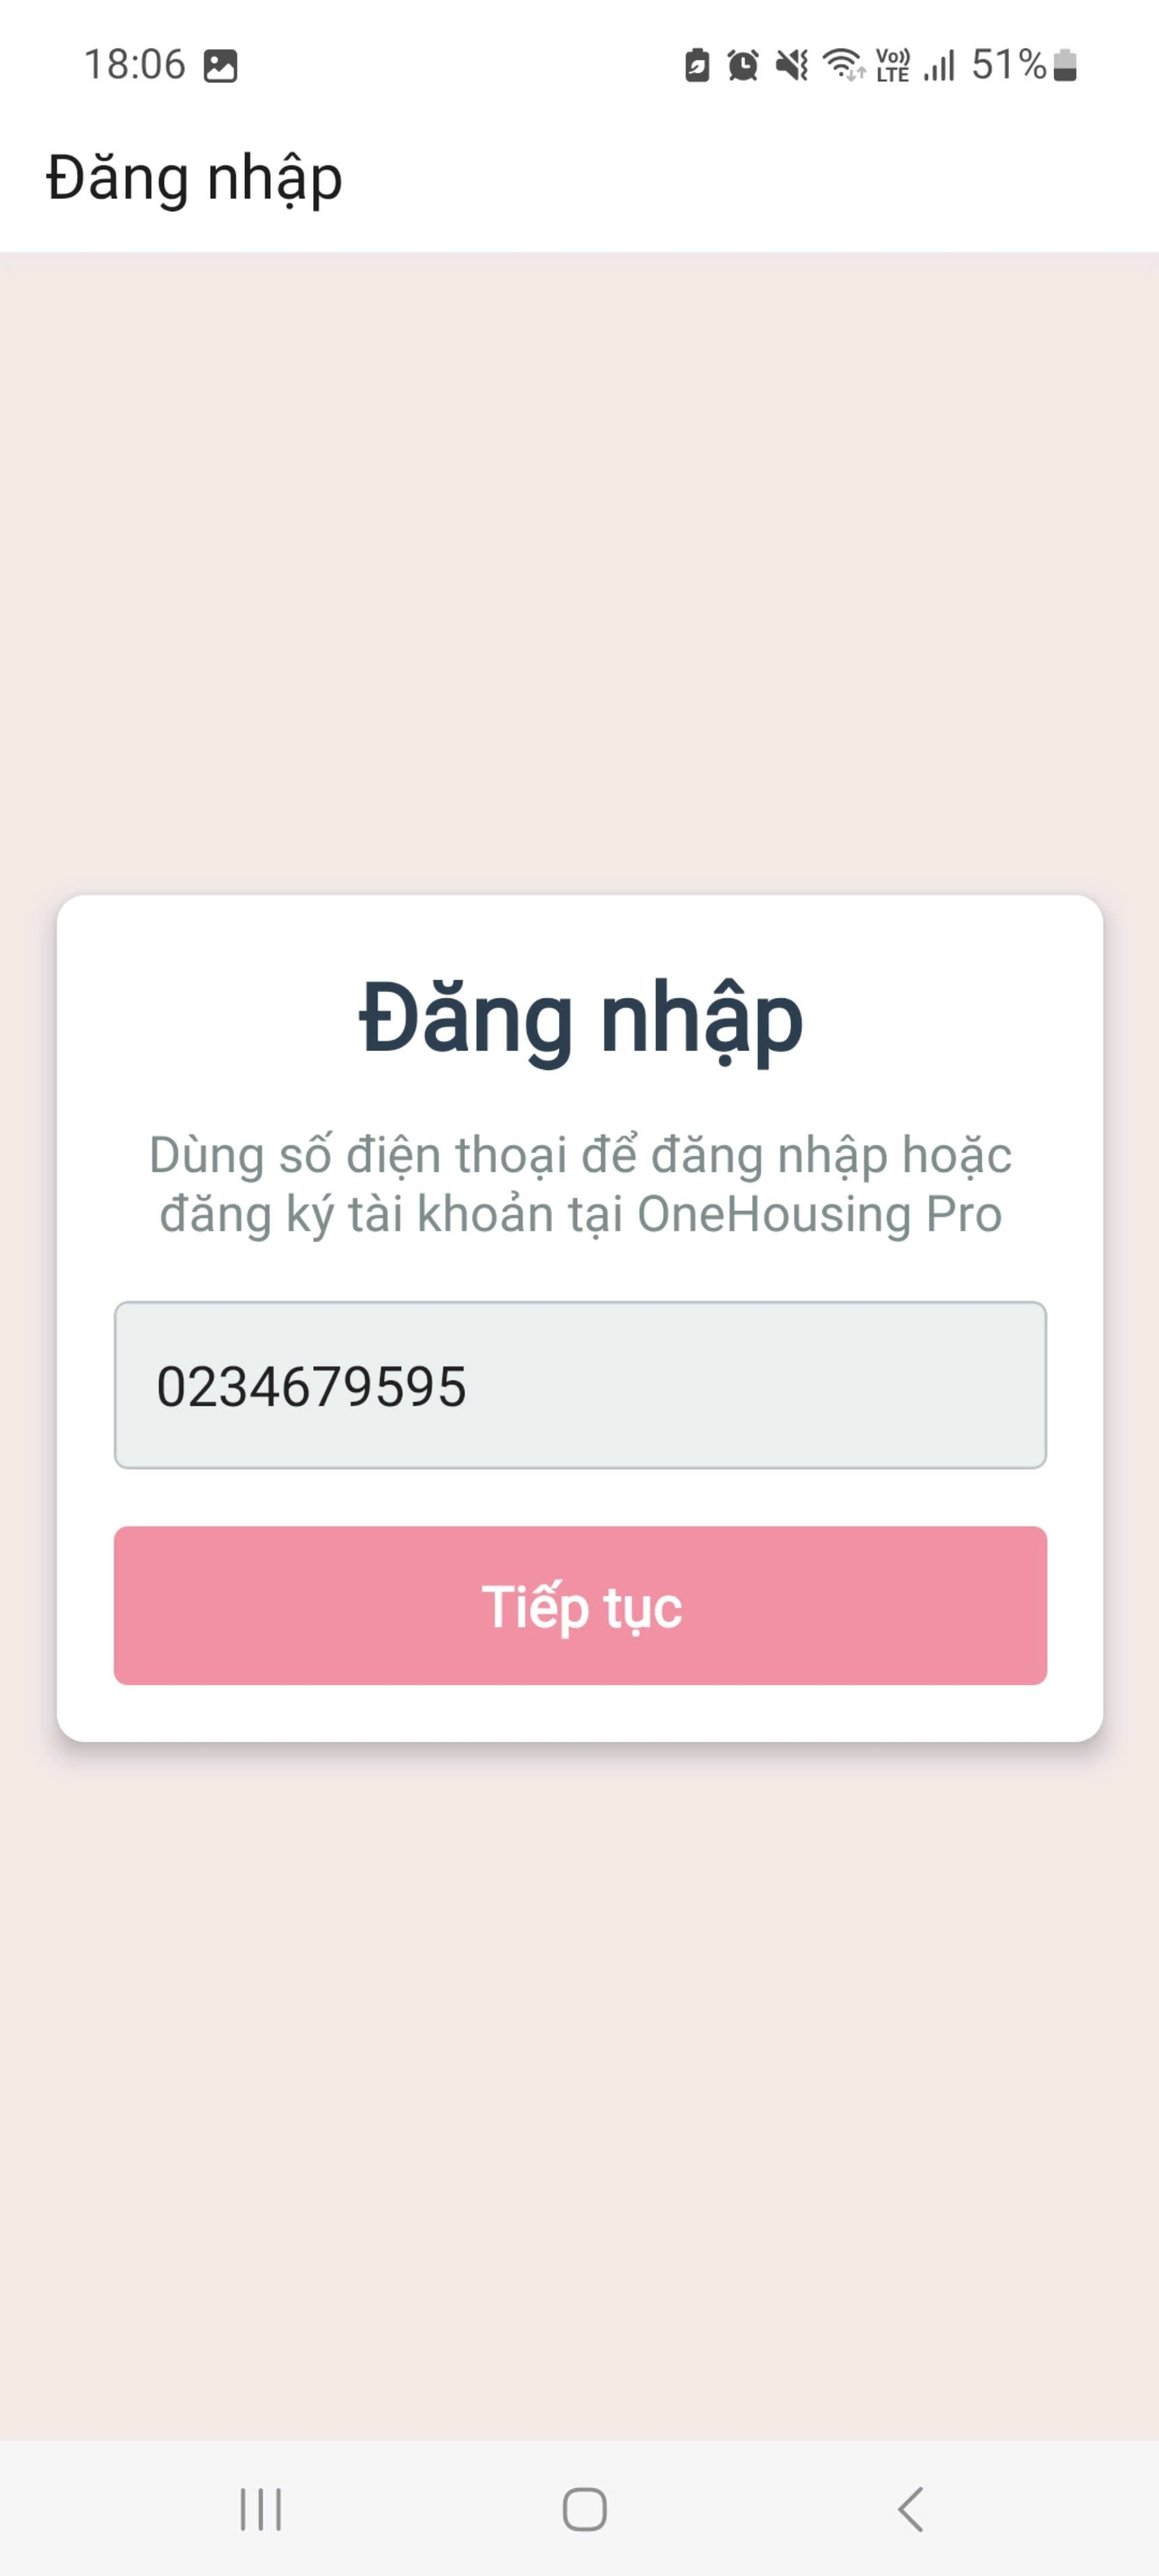
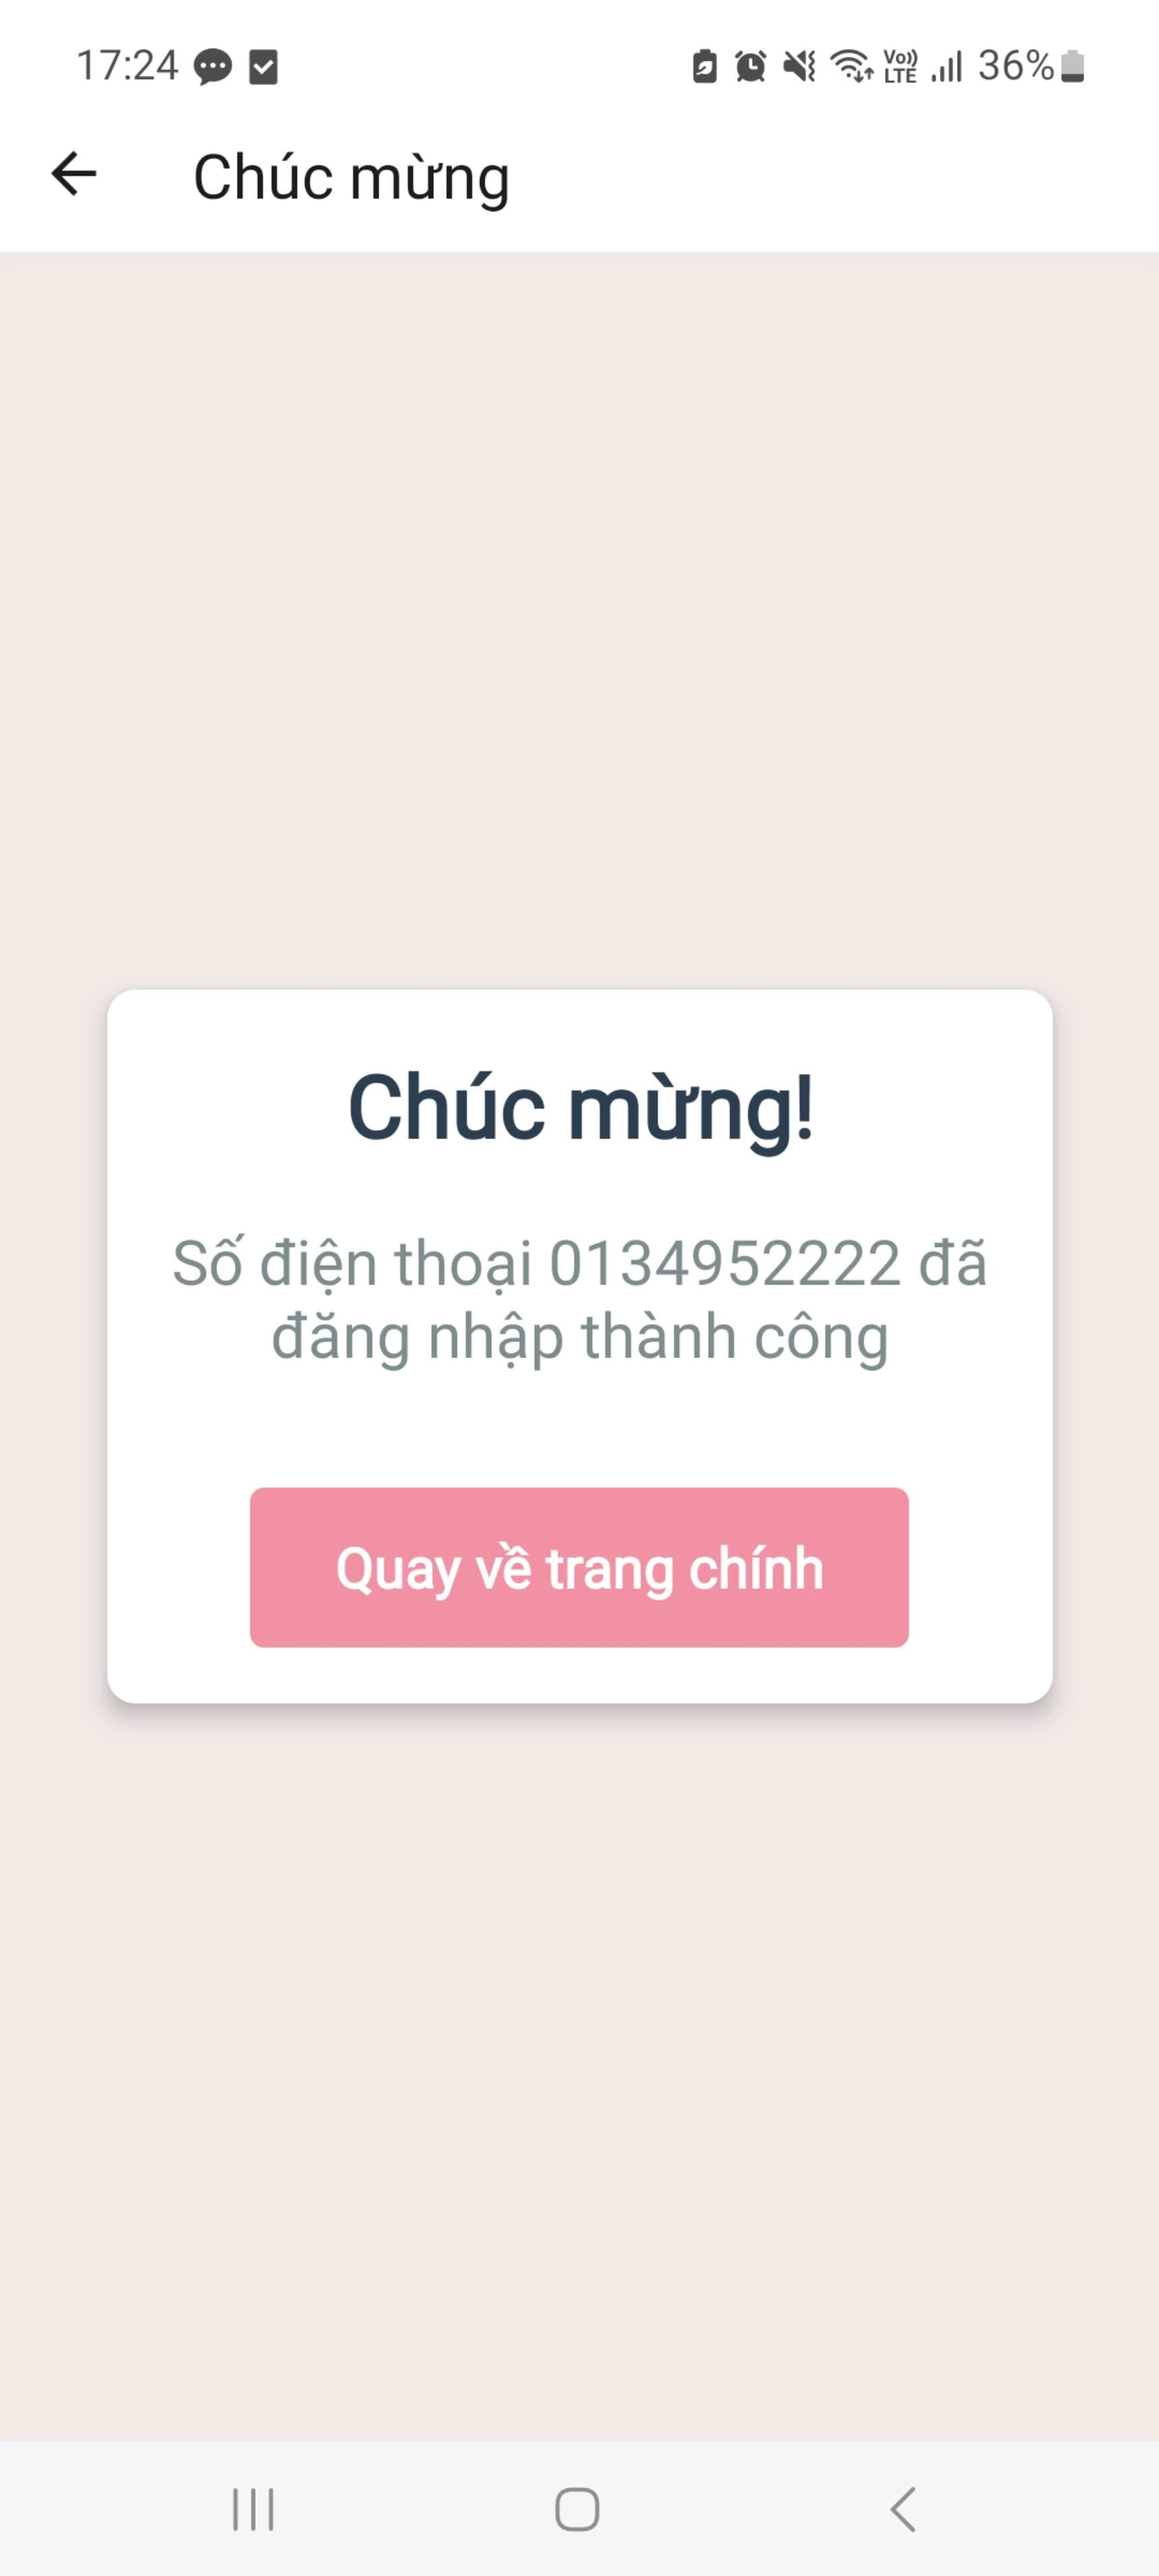
noi dung

diff --git a/App.js b/App.js
@@ -5,31 +5,34 @@ import { StatusBar } from 'expo-status-bar';
 import React from 'react';
 import LoginScreen from './LoginScreen';
 import OTPScreen from './OTPScreen';
+import { PhoneProvider } from './PhoneContext'; // Import PhoneProvider
 import SuccessScreen from './SuccessScreen';
 
 const Stack = createStackNavigator();
 
 export default function App() {
   return (
-    <NavigationContainer>
-      <StatusBar style="auto" />
-      <Stack.Navigator initialRouteName="LoginScreen">
-        <Stack.Screen 
-          name="LoginScreen" 
-          component={LoginScreen} 
-          options={{ title: 'Đăng nhập' }}
-        />
-        <Stack.Screen 
-          name="OTPScreen" 
-          component={OTPScreen} 
-          options={{ title: 'Xác minh OTP' }}
-        />
-        <Stack.Screen 
-          name="SuccessScreen" 
-          component={SuccessScreen} 
-          options={{ title: 'Chúc mừng' }}
-        />
-      </Stack.Navigator>
-    </NavigationContainer>
+    <PhoneProvider>
+      <NavigationContainer>
+        <StatusBar style="auto" />
+        <Stack.Navigator initialRouteName="LoginScreen">
+          <Stack.Screen 
+            name="LoginScreen" 
+            component={LoginScreen} 
+            options={{ title: 'Đăng nhập' }}
+          />
+          <Stack.Screen 
+            name="OTPScreen" 
+            component={OTPScreen} 
+            options={{ title: 'Xác minh OTP' }}
+          />
+          <Stack.Screen 
+            name="SuccessScreen" 
+            component={SuccessScreen} 
+            options={{ title: 'Chúc mừng' }}
+          />
+        </Stack.Navigator>
+      </NavigationContainer>
+    </PhoneProvider>
   );
 }

diff --git a/LoginScreen.js b/LoginScreen.js
@@ -1,14 +1,18 @@
+// LoginScreen.js
 import { useNavigation } from '@react-navigation/native';
-import React, { useState } from 'react';
+import React, { useContext, useState } from 'react';
 import { Alert, Keyboard, StyleSheet, Text, TextInput, TouchableOpacity, View } from 'react-native';
+import { PhoneContext } from './PhoneContext'; // Import PhoneContext
 
 const LoginScreen = () => {
   const [phoneNumber, setPhoneNumber] = useState('');
   const navigation = useNavigation();
+  const { setPhoneNumber: setContextPhoneNumber } = useContext(PhoneContext); // Use setPhoneNumber from context
 
   const handleContinue = () => {
-    const phoneRegex = /^0[0-9]{9}$/; // Updated regex to ensure the number starts with '0'
+    const phoneRegex = /^0[0-9]{9}$/; // Regex to ensure the number starts with '0'
     if (phoneRegex.test(phoneNumber)) {
+      setContextPhoneNumber(phoneNumber); // Save phone number to context
       navigation.navigate('OTPScreen', { phoneNumber });
     } else {
       Alert.alert('Lỗi', 'Vui lòng nhập số điện thoại hợp lệ.');
@@ -41,7 +45,6 @@ const LoginScreen = () => {
     </View>
   );
 };
-
 const styles = StyleSheet.create({
   container: {
     flex: 1,

diff --git a/SuccessScreen.js b/SuccessScreen.js
@@ -1,12 +1,13 @@
 import { useNavigation } from '@react-navigation/native';
-import React from 'react';
+import React, { useContext } from 'react';
 import { StyleSheet, Text, TouchableOpacity, View } from 'react-native';
+import { PhoneContext } from './PhoneContext'; // Import PhoneContext
 
 const SuccessScreen = () => {
   const navigation = useNavigation();
+  const { phoneNumber } = useContext(PhoneContext); // Get phone number from context
 
   const handleGoBack = () => {
-    // Quay lại màn hình chính hoặc trang nào khác mà bạn muốn
     navigation.popToTop();
   };
 
@@ -14,7 +15,7 @@ const SuccessScreen = () => {
     <View style={styles.container}>
       <View style={styles.card}>
         <Text style={styles.header}>Chúc mừng!</Text>
-        <Text style={styles.message}>Đăng nhập thành công</Text>
+        <Text style={styles.message}>Số điện thoại {phoneNumber} đã đăng nhập thành công</Text>
 
         <TouchableOpacity style={styles.button} onPress={handleGoBack}>
           <Text style={styles.buttonText}>Quay về trang chính</Text>

diff --git a/PhoneContext.js b/PhoneContext.js
@@ -1,0 +1,14 @@
+// PhoneContext.js
+import React, { createContext, useState } from 'react';
+
+export const PhoneContext = createContext();
+
+export const PhoneProvider = ({ children }) => {
+  const [phoneNumber, setPhoneNumber] = useState('');
+
+  return (
+    <PhoneContext.Provider value={{ phoneNumber, setPhoneNumber }}>
+      {children}
+    </PhoneContext.Provider>
+  );
+};

diff --git a/README.md b/README.md
@@ -1,8 +1,6 @@
 # KET QUA
 # Login Screen
-![alt text](image.png)
+![alt text](image5.jpg)
 ![alt text](image2.jpg)
-# OTP Screen
-![alt text](image3.jpg)
 # Success Screen
-![alt text](image4.jpg)
+![alt text](image.jpg)
